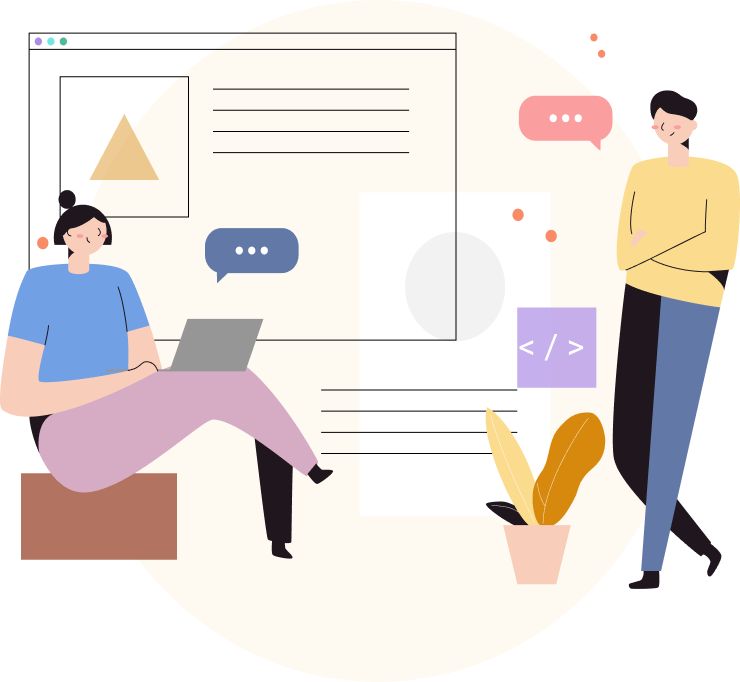
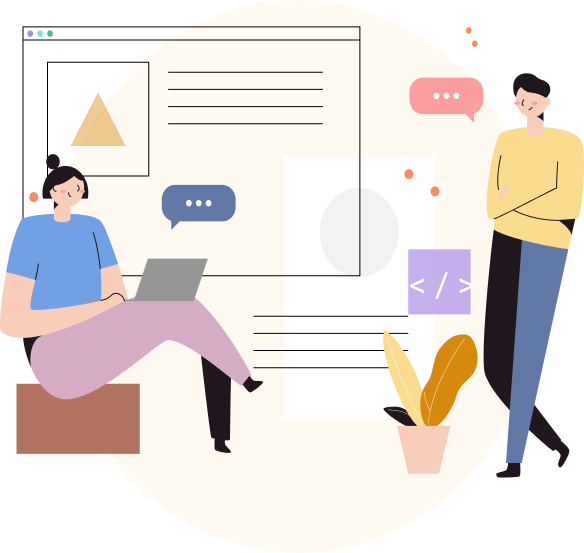
added firstPage as component

diff --git a/styles/FirstPage.module.scss b/styles/FirstPage.module.scss
@@ -1,0 +1,60 @@
+.firstPage {
+  display: flex;
+  margin: auto;
+  max-width: 1441px;
+  padding-bottom: 131px;
+  background-color: blue;
+  .firstPageLeft {
+    .firstImage {
+      padding-top: 100px;
+      padding-left: 103px;
+      min-width: 584px;
+      min-height: 553px;
+    }
+  }
+  .firstPageRight {
+    padding-top: 80px;
+    padding-left: 150px;
+    display: flex;
+    flex-direction: column;
+    .firstPageRightTitle {
+        max-width: 650px;
+        font-family: Montserrat;
+        font-style: normal;
+        font-weight: 800;
+        font-size: 48px;
+        line-height: 59px;
+        letter-spacing: -0.01em;
+        padding-right: 137px;
+    }
+    .firstPageRightText {
+        padding-top: 24px;
+        padding-bottom: 24px;
+        padding-right: 283px;
+        font-family: Montserrat;
+        font-style: normal;
+        font-weight: normal;
+        font-size: 18px;
+        line-height: 22px;
+    }
+    .getInTouchDiv {
+        padding-right: 530px;
+        .getInTouchButton {
+            min-width: 155px;
+            min-height: 49px;
+            border: none;
+            background: #9d4f7c;
+            font-family: Montserrat;
+            font-style: normal;
+            font-weight: 800;
+            font-size: 14px;
+            line-height: 17px;
+            color: #ffffff;
+            outline: none;
+          }
+    }
+
+  }
+}
+
+

diff --git a/pages/index.js b/pages/index.js
@@ -7,6 +7,7 @@ import { FontAwesomeIcon } from '@fortawesome/react-fontawesome'
 import { useState } from 'react'
 import Link from 'next/link'
 import NavBar from './components/navbar.js'
+import FirstPage from './homePage/firstPage.js'
 
 export default function Home() {
   const [name, setName] = useState('')
@@ -55,7 +56,10 @@ export default function Home() {
         <link rel="stylesheet" href="https://cdnjs.cloudflare.com/ajax/libs/font-awesome/4.7.0/css/font-awesome.min.css"></link>
       </Head>
       <body>
-        <div className={styles.topLine}></div>
+        <NavBar />
+        <FirstPage />
+        
+        {/* <div className={styles.topLine}></div>
         <div className={styles.firstPage}>
           <div className={styles.firstPageLeftSide}>
             <div className={styles.title}>JONIKA</div>
@@ -92,7 +96,7 @@ export default function Home() {
               <button className={styles.getInTouchButton} onClick={onClick}>GET IN TOUCH</button>
             </div>
           </div>
-        </div>
+        </div> */}
         <div className={styles.secondPage}>
           <div className={styles.threePointsBackGround}>
             <div className={styles.threePoints}>

diff --git a/pages/homePage/firstPage.js b/pages/homePage/firstPage.js
@@ -1,0 +1,37 @@
+import Image from "next/image.js";
+import styles from "../../styles/FirstPage.module.scss";
+
+export default function FirstPage() {
+  const onClick = () => {
+    bottomRef.current.scrollIntoView();
+  };
+  return (
+    <div className={styles.firstPage}>
+      <div className={styles.firstPageLeft}>
+        <div className={styles.firstImage}>
+          <Image
+            src="/example-scene-1.png"
+            width={584}
+            height={553}
+            alt="Image1"
+          />
+        </div>
+      </div>
+      <div className={styles.firstPageRight}>
+        <div className={styles.firstPageRightTitle}>
+          Turn your tech idea into a product people love
+        </div>
+        <div className={styles.firstPageRightText}>
+          Technology should work for you. I’m here to build your mobile or web
+          app, so you can focus on what really matters - growing your business.
+        </div>
+        <div className={styles.getInTouchDiv}>
+        <button className={styles.getInTouchButton} onClick={onClick}>
+          GET IN TOUCH
+        </button>
+        </div>
+
+      </div>
+    </div>
+  );
+}

diff --git a/styles/Navbar.module.scss b/styles/Navbar.module.scss
@@ -5,6 +5,7 @@
 }
 .navBar {
     max-width: 1441px;
+    background-color: red;
     margin: auto;
     display: flex;
     flex-direction: row;
@@ -12,9 +13,12 @@
         .navBarLeftTitle {
             padding-top: 54px;
             padding-left: 72px;
+            font-family: Montserrat;
+            font-style: normal;
+            font-weight: 800;
             font-size: 24px;
-            font-family: 'Montserrat', sans-serif;
-            font-weight: bold;
+            line-height: 29px;
+            letter-spacing: 0.15em;
         }
     }
     .navBarRight {

diff --git a/styles/Home.module.scss b/styles/Home.module.scss
@@ -4,7 +4,7 @@
   width: 100%;
 }
 .container {
-  max-width: 1441px;
+  // max-width: 1441px;
   margin:auto;
   // display: flex;
   // justify-content: center;
